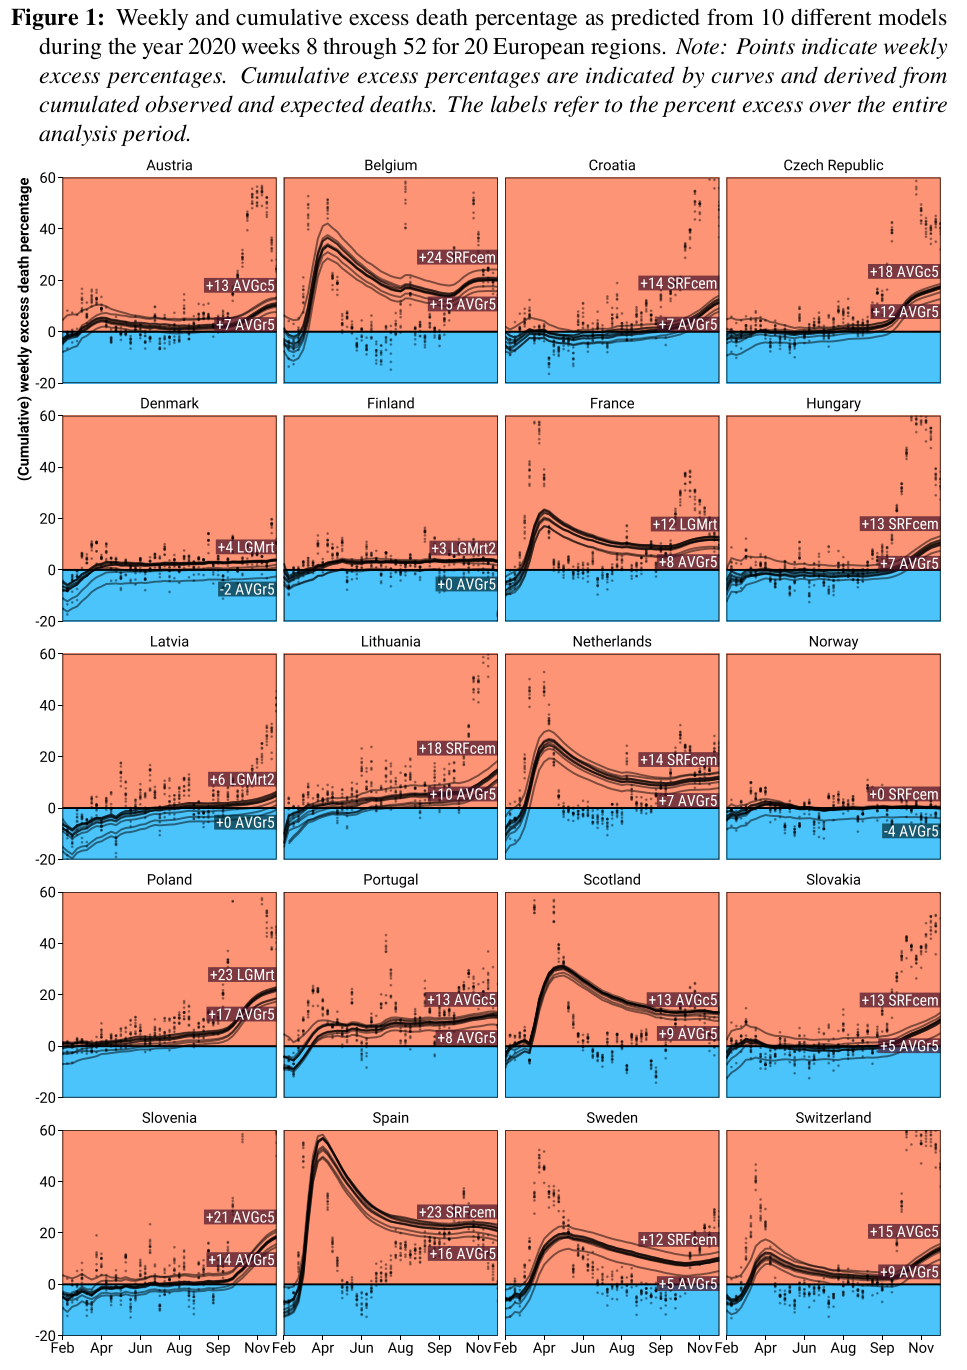
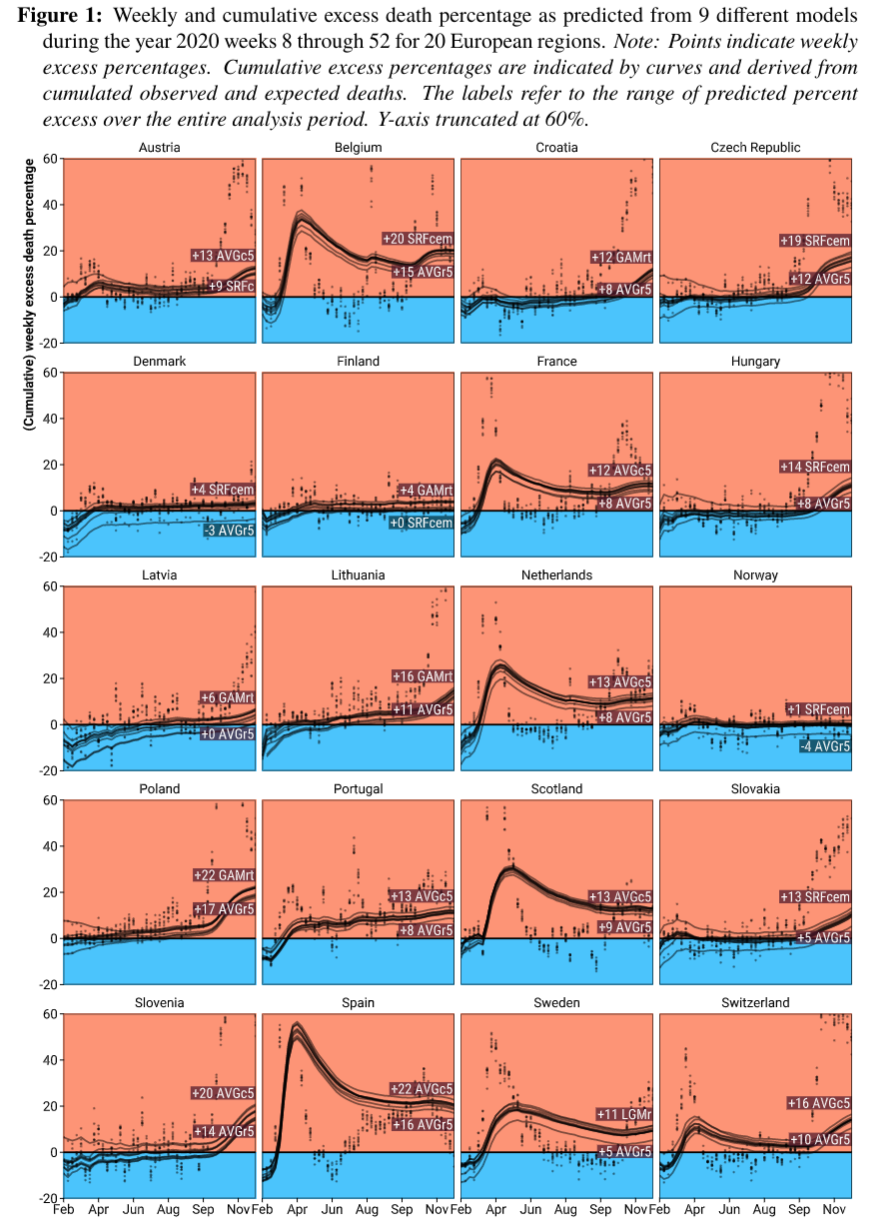
Update Readme

Changed region(s): [[0.0, 0.0, 0.9886, 0.9935]]

diff --git a/README.md b/README.md
@@ -1,17 +1,7 @@
-# Robustness and bias of excess death estimates in 2020 under varying model specifications
+# Robustness and bias of European excess death estimates in 2020 under varying model specifications
 
 Jonas Schöley
 
 ![](cover.png)
 
-Various procedures are in use to calculate excess deaths during the ongoing COVID-19
-pandemic. Using weekly death counts from 20 European countries, we evaluate the robustness of
-excess death estimates to the choice of model for expected deaths and perform a cross-validation
-analysis to assess the error and bias in each model's predicted death counts. We find that the
-different models produce very similar patterns of weekly excess deaths but disagree substantially
-on the level of excess. The country ranking of percent excess death in 2020 is sensitive to the
-exclusion of an exposure variable but otherwise stable across models that do account for population
-structure. The five-year average death rate model consistently produces the lowest excess death
-estimates, whereas high excess deaths are produced by the popular five-year average death count
-and Euromomo models. Cross-validation revealed these estimates to be biased under a causal
-interpretation of "expected deaths had COVID-19 not happened."
+Various procedures are in use to calculate excess deaths during the ongoing COVID-19 pandemic. Using weekly death counts from 20 European countries, we evaluate the robustness of excess death estimates to the choice of model for expected deaths and perform a cross-validation analysis to assess the error and bias in each model's predicted death counts. We find that the different models produce very similar patterns of weekly excess deaths but disagree substantially on the level of excess. While the exact country ranking along percent excess death in 2020 is sensitive to the choice of model the top and bottom ranks are robustly identified. On the country level, the five-year average death rate model tends to produce the lowest excess death estimates, whereas high excess deaths are produced by the popular five-year average death count and Euromomo-style Serfling models. Cross-validation revealed these estimates to be biased under a causal interpretation of "expected deaths had COVID-19 not happened."
